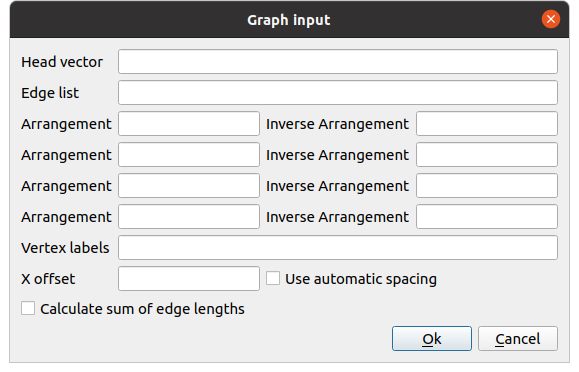
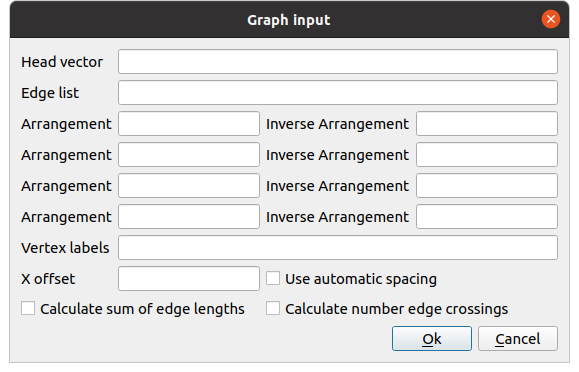
Added calculation of the number of edge crossings

Changed region(s): [[0.4663, 0.7984, 0.8705, 0.8575]]

diff --git a/README.md b/README.md
@@ -24,6 +24,10 @@ Copy all the `.lua` files into your ipelet directory. In Ubuntu, this is `~/.ipe
 
 ## History of changes
 
+### 12th June 2021
+
+- Added calculation of the number of edge crossings.
+
 ### 29th May 2021
 
 - When using the head vector, add the arcs to the ipe document in a way that the 'forward' arrow points from the head to the dependent. In other words, edges now follow the natural direction of the edge _(u,v)_, i.e., from _u_ to _v_, where _u_ is the head and _v_ is the dependent.
